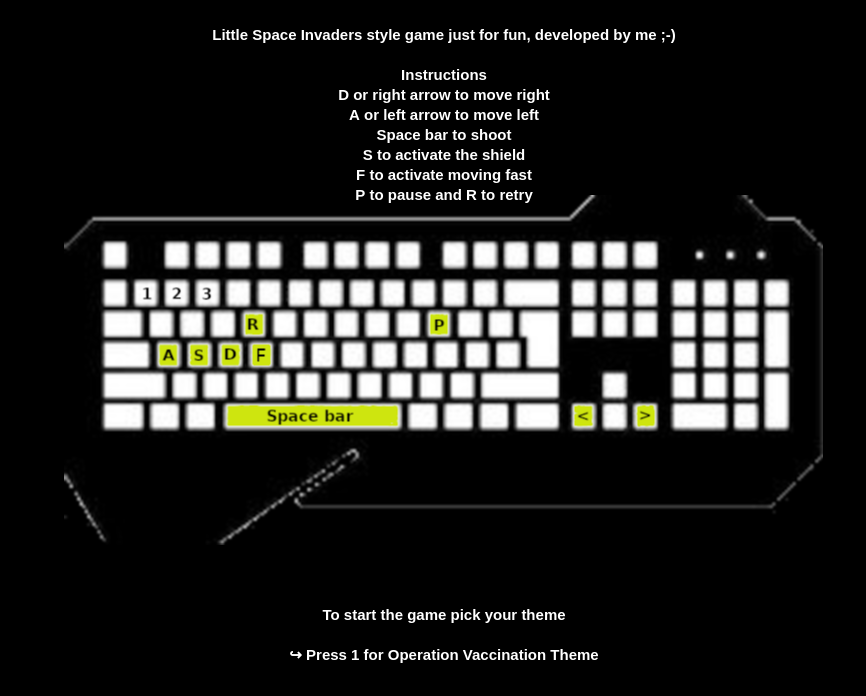
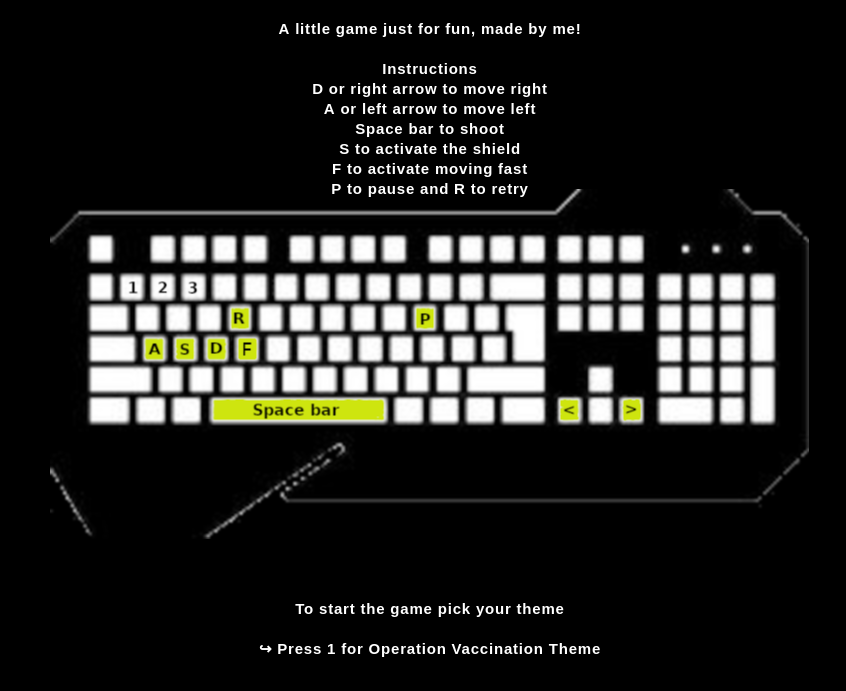
change some text

diff --git a/scripts/game.js b/scripts/game.js
@@ -99,7 +99,7 @@ function drawInstructions() {
 }
 
 function drawPreInstructions(y) {
-    ctx.fillText('Little Space Invaders style game just for fun, developed by me ;-)', canvasWidth / 2, canvasHeight / 2 - keyboardImage.height + y)
+    ctx.fillText('A little game just for fun, made by me!', canvasWidth / 2, canvasHeight / 2 - keyboardImage.height + y)
     ctx.fillText('Instructions', canvasWidth / 2, canvasHeight / 2 - keyboardImage.height + 40 + y)
     ctx.fillText('D or right arrow to move right', canvasWidth / 2, canvasHeight / 2 - keyboardImage.height + 60 + y)
     ctx.fillText('A or left arrow to move left', canvasWidth / 2, canvasHeight / 2 - keyboardImage.height + 80 + y)
@@ -112,7 +112,7 @@ function drawPreInstructions(y) {
 function drawPostInstructions(y) {
     if (mobileBrowser) {
         ctx.fillStyle = '#FF0000'
-        ctx.fillText("Sorry this game doen't support mobile phones!", canvasWidth / 2, canvasHeight / 2 + keyboardImage.height - 140 + y)
+        ctx.fillText("Sorry mobile devices not supported!", canvasWidth / 2, canvasHeight / 2 + keyboardImage.height - 140 + y)
         ctx.fillStyle = '#FFFFFF'
         ctx.fillText('Try it on your laptop', canvasWidth / 2, canvasHeight / 2 + keyboardImage.height - 100 + y)
     } else {
